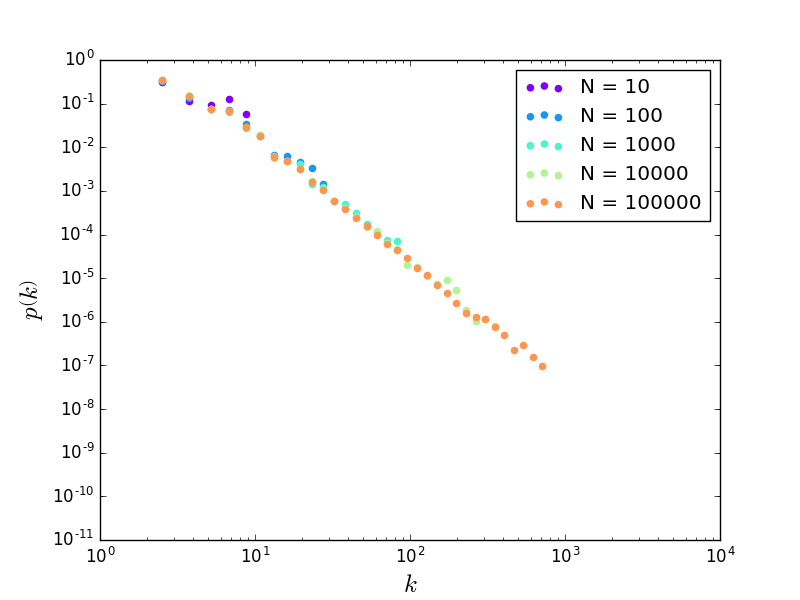
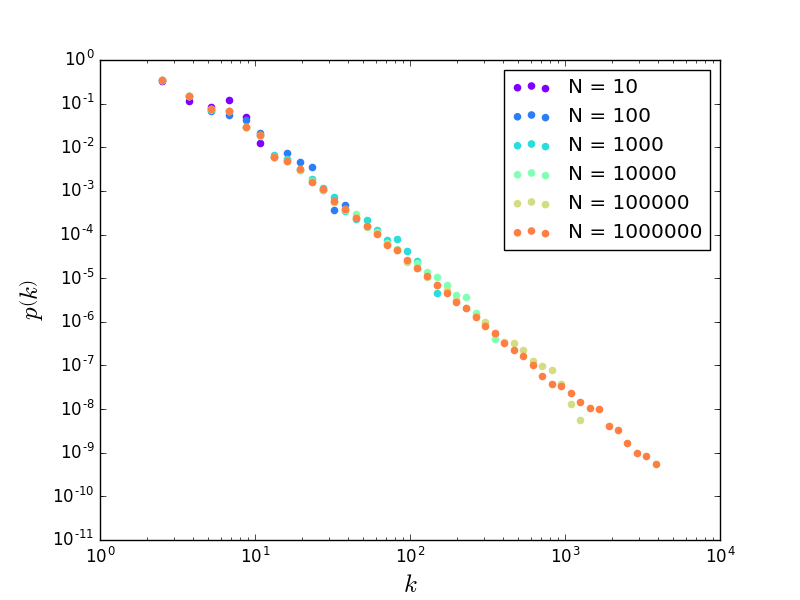
Updated git repository.

diff --git a/Phase1.py b/Phase1.py
@@ -37,9 +37,10 @@ class Phase1:
         colors = iter(cm.rainbow(np.linspace(0, 1, Nlim)))
         for i in range(1,Nlim):
             print "Testing N = ", pow(10,i)
-            data = []
+            data = np.zeros(100)
             B = np.zeros(0)
             for j in range(repeats):
+                print j
                 g = BAGraph(pow(10,i),m)
                 g.generateGraph()
                 bins, dat = g.logBinDegrees()
@@ -47,9 +48,9 @@ class Phase1:
                     B = bins
                 d = np.zeros(100)
                 d[:len(dat)] = dat
-                data.append(d)
-            dat = np.mean(data, axis=0)[:len(bins)]
-            plt.scatter(bins, dat, color=next(colors), label="N = %d"%(pow(10,i)))
+                data += d
+            dat = data[:len(B)]/repeats
+            plt.scatter(B, dat, color=next(colors), label="N = %d"%(pow(10,i)))
         plt.xscale('log')
         plt.yscale('log')
         plt.ylim(1e-11,1)
